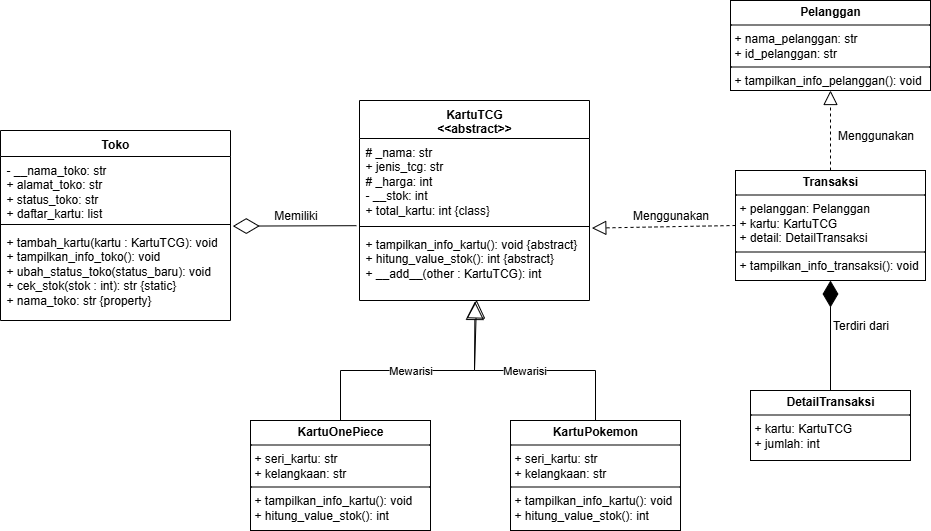
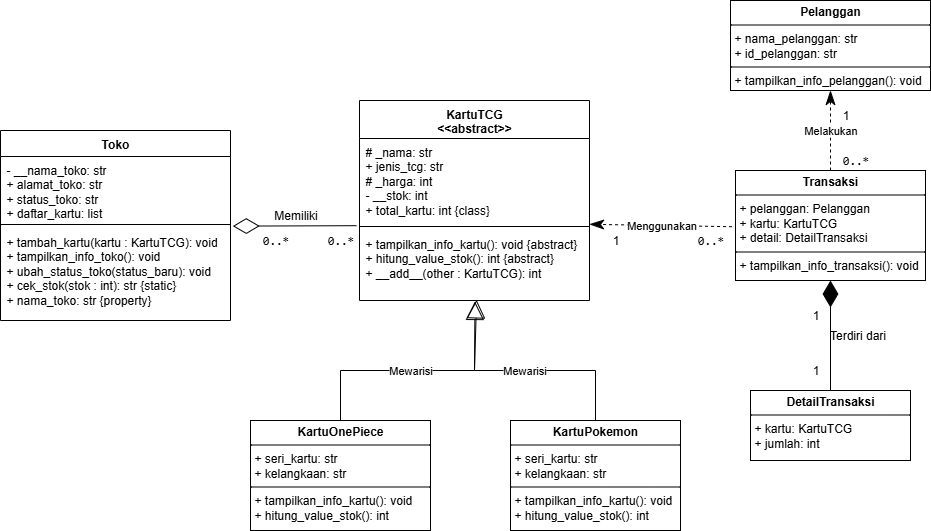
Revisi README

diff --git a/posttest3-pbo/README.md b/posttest3-pbo/README.md
@@ -12,19 +12,39 @@ Class yang digunakan adalah `KartuTCG` (abstract class), `KartuPokemon`, `KartuO
 
 ![Gambar 1. Class Diagram](png/uml.png)
 
-Diagram di atas menampilkan nama kelas, atribut dan method utama, serta garis relasi antar kelas. Setiap relasi pada diagram benar-benar diimplementasikan pada kode program.
+Diagram UML di atas menggambarkan kelas-kelas yang digunakan dalam program beserta atribut, method, dan hubungan antar kelasnya. Dalam diagram ini terdapat empat jenis hubungan, yaitu asosiasi, agregasi, komposisi, dan pewarisan. Selain itu, terdapat juga *multiplicity* yang menunjukkan jumlah objek yang dapat terlibat dalam suatu hubungan. Angka `1` berarti tepat satu objek, sedangkan `0..*` berarti bisa tidak ada objek sama sekali atau bisa lebih dari satu objek.
 
 **Asosiasi (`Transaksi` → `Pelanggan` dan `Transaksi` → `KartuTCG`)**
-Objek `Pelanggan` dan `KartuTCG` dibuat di luar kelas `Transaksi`, kemudian diberikan melalui constructor dan disimpan pada atribut `self.pelanggan` dan `self.kartu`. Relasi ini berupa asosiasi karena pelanggan dan kartu merupakan objek yang berdiri sendiri dan tetap ada walaupun transaksi tidak ada.
+
+Pada program ini, kelas `Transaksi` menggunakan objek dari kelas `Pelanggan` dan `KartuTCG`. Kedua objek tersebut dibuat di luar kelas `Transaksi`, kemudian dimasukkan melalui constructor dan disimpan pada atribut `self.pelanggan` dan `self.kartu`.
+
+Hubungan ini termasuk asosiasi karena objek pelanggan dan kartu dapat berdiri sendiri meskipun objek transaksi sudah tidak ada.
+
+Pada hubungan `Transaksi` dengan `Pelanggan`, angka `1` yang berada di dekat kelas `Pelanggan` menunjukkan bahwa setiap transaksi hanya melibatkan satu pelanggan. Sementara itu, angka `0..*` di dekat kelas `Transaksi` berarti satu pelanggan bisa saja belum pernah melakukan transaksi atau sudah melakukan banyak transaksi.
+
+Hal yang sama juga berlaku pada hubungan `Transaksi` dengan `KartuTCG`. Angka `1` di dekat `KartuTCG` berarti setiap transaksi hanya menggunakan satu jenis kartu, sedangkan `0..*` di dekat `Transaksi` berarti satu objek kartu dapat digunakan dalam beberapa transaksi atau belum pernah digunakan sama sekali.
 
 **Agregasi (`Toko` ◇— `KartuTCG`)**
-Kelas `Toko` menampung kumpulan kartu pada list `daftar_kartu` melalui method `tambah_kartu()`, sedangkan objek kartu dibuat di luar kelas `Toko`. Relasi ini dipilih sebagai agregasi karena apabila objek `Toko` dihapus, objek kartu tetap ada dan masih dapat digunakan oleh toko lain.
+
+Kelas `Toko` memiliki list `daftar_kartu` yang digunakan untuk menyimpan kumpulan objek kartu. Kartu tersebut ditambahkan menggunakan method `tambah_kartu()`. Objek kartu dibuat secara terpisah dari toko, sehingga ketika objek toko dihapus, kartu tersebut masih bisa digunakan.
+
+Hubungan ini termasuk agregasi karena objek kartu tidak bergantung sepenuhnya pada objek toko. Pada diagram, angka `0..*` di dekat kelas `KartuTCG` menunjukkan bahwa satu toko bisa memiliki banyak kartu atau belum memiliki kartu sama sekali. Sementara itu, angka `0..*` di dekat kelas `Toko` berarti satu kartu bisa terdaftar pada beberapa toko atau tidak terdaftar pada toko mana pun. Hal ini memungkinkan karena program tidak membatasi satu kartu hanya untuk satu toko.
 
 **Komposisi (`Transaksi` ◆— `DetailTransaksi`)**
-Objek `DetailTransaksi` dibuat langsung di dalam constructor kelas `Transaksi`. Relasi ini dipilih sebagai komposisi karena detail transaksi (kartu dan jumlah) tidak memiliki arti tanpa transaksinya, sehingga siklus hidupnya bergantung penuh pada `Transaksi`.
+
+Pada kelas `Transaksi`, objek `DetailTransaksi` dibuat langsung di dalam constructor. Objek ini digunakan untuk menyimpan informasi kartu dan jumlah pembelian dalam suatu transaksi.
+
+Hubungan ini termasuk komposisi karena detail transaksi merupakan bagian dari transaksi itu sendiri dan keberadaannya bergantung pada objek `Transaksi`.
+
+Pada diagram, kedua kelas memiliki angka `1`. Angka `1` di dekat `DetailTransaksi` menunjukkan bahwa setiap transaksi memiliki tepat satu detail transaksi. Sementara itu, angka `1` di dekat `Transaksi` berarti setiap detail transaksi hanya menjadi bagian dari satu transaksi. Jadi, hubungan kedua kelas ini bersifat satu banding satu atau *one-to-one*.
 
 **Pewarisan (`KartuPokemon` dan `KartuOnePiece` → `KartuTCG`)**
-Kedua kelas tersebut merupakan subclass dari `KartuTCG`.
+
+Kelas `KartuPokemon` dan `KartuOnePiece` merupakan turunan dari kelas `KartuTCG`. Kedua kelas tersebut mewarisi atribut dan method yang dimiliki oleh kelas induknya.
+
+Kelas `KartuTCG` dibuat sebagai abstract class yang memiliki dua abstract method, yaitu `tampilkan_info_kartu()` dan `hitung_value_stok()`. Kedua method tersebut kemudian diimplementasikan kembali pada masing-masing subclass sesuai dengan jenis kartunya.
+
+Pada diagram UML, hubungan pewarisan ditunjukkan dengan garis yang memiliki ujung segitiga kosong mengarah ke kelas `KartuTCG`. Berbeda dengan hubungan sebelumnya, pewarisan tidak menggunakan angka multiplicity karena hubungan ini menunjukkan hubungan antara kelas induk dan kelas turunan, bukan jumlah objek yang saling terhubung.
 
 ---
 
@@ -147,40 +167,49 @@ Stok kartu 1 berhasil diubah menjadi 10 karena nilainya valid. Ketika stok kartu
 ---
 
 ## Prinsip SOLID
-Program ini menerapkan tiga prinsip SOLID, yaitu OCP, LSP, dan DIP.
- 
-| Prinsip | Bagian kode yang menerapkan |
+
+Program ini menerapkan prinsip Open/Closed Principle (OCP) dan Liskov Substitution Principle (LSP), serta pendekatan yang mendukung Dependency Inversion Principle (DIP).
+
+| Prinsip | Bagian Kode |
 |---|---|
-| Open/Closed Principle (OCP) | Fungsi `bayar_pesanan()` dan hierarki `KartuTCG` |
-| Liskov Substitution Principle (LSP) | `KartuPokemon` dan `KartuOnePiece` sebagai pengganti `KartuTCG` |
+| Open/Closed Principle (OCP) | `bayar_pesanan()` dan `KartuTCG` |
+| Liskov Substitution Principle (LSP) | `KartuPokemon` dan `KartuOnePiece` |
 | Dependency Inversion Principle (DIP) | Parameter `metode` pada `bayar_pesanan()` |
- 
+
 ### 1. Open/Closed Principle (OCP)
- 
-Kode terbuka untuk ditambah, tetapi tertutup untuk diubah. Prinsip ini diterapkan pada dua bagian:
- 
-- **Metode pembayaran.** Fungsi `bayar_pesanan()` tidak perlu diubah ketika ada metode pembayaran baru. Cukup dibuat kelas baru yang memiliki method `proses_pembayaran()`, misalnya `PembayaranTransfer`, tanpa menyentuh `PembayaranQRIS`, `PembayaranTunai`, maupun `bayar_pesanan()`.
+
+Prinsip OCP berarti program dapat ditambahkan fitur baru tanpa harus mengubah kode yang sudah ada. Contohnya, kita bisa menambahkan metode pembayaran baru selama memiliki method `proses_pembayaran()`.
+
 ```python
 def bayar_pesanan(metode, jumlah):
     metode.proses_pembayaran(jumlah)
 ```
- 
-- **Jenis kartu.** Jenis kartu baru, misalnya `KartuYuGiOh`, cukup dibuat sebagai subclass `KartuTCG` yang mengimplementasikan kedua abstract method. Kelas `Toko`, `Transaksi`, dan perulangan pada program utama tidak perlu diubah.
+
+Selain itu, jenis kartu baru seperti `KartuYuGiOh` juga dapat ditambahkan dengan membuat subclass dari `KartuTCG` dan mengimplementasikan kedua abstract method.
+
 ### 2. Liskov Substitution Principle (LSP)
- 
-Objek subclass dapat dipakai di mana pun objek parent-nya dipakai tanpa menyebabkan error. `KartuPokemon` dan `KartuOnePiece` dapat menggantikan `KartuTCG` karena keduanya mengimplementasikan seluruh abstract method dan tidak menolak atau melempar error pada method yang diwarisi.
- 
-- `Toko.tambah_kartu()` dan `Transaksi` menerima objek `KartuTCG` apa pun, baik Pokemon maupun One Piece.
-- Perulangan `for kartu in daftar_kartu` memanggil `jalankan()`, `tampilkan_info_kartu()`, dan `hitung_value_stok()` pada kedua jenis kartu dengan cara yang sama dan berjalan tanpa error.
+
+Prinsip LSP berarti subclass dapat menggantikan parent class tanpa mengganggu jalannya program. Pada program ini, `KartuPokemon` dan `KartuOnePiece` dapat digunakan dengan cara yang sama karena keduanya merupakan turunan `KartuTCG`.
+
+```python
+for kartu in daftar_kartu:
+    kartu.jalankan()
+    kartu.tampilkan_info_kartu()
+    print("Nilai Stok: Rp", kartu.hitung_value_stok())
+```
+
+Kedua jenis kartu dapat menjalankan method tersebut tanpa perlu pengecekan tipe objek, meskipun hasilnya berbeda sesuai implementasi masing-masing.
+
 ### 3. Dependency Inversion Principle (DIP)
- 
-Objek yang dibutuhkan suatu bagian program tidak dibuat di dalamnya, tetapi dikirim dari luar. Fungsi `bayar_pesanan()` menerima objek metode pembayaran melalui parameter `metode`, sehingga fungsi ini tidak membuat `PembayaranQRIS` atau `PembayaranTunai` sendiri. Fungsi hanya bergantung pada keberadaan method `proses_pembayaran()`, bukan pada kelas pembayaran tertentu. Objek pembayaran dibuat pada program utama:
- 
+
+Prinsip DIP berarti program sebaiknya bergantung pada abstraksi, bukan kelas tertentu. Pada program ini, pendekatan yang mendukung DIP terlihat dari fungsi `bayar_pesanan()` yang menerima objek pembayaran melalui parameter `metode`.
+
 ```python
 qris = PembayaranQRIS()
 tunai = PembayaranTunai()
- 
+
 bayar_pesanan(qris, 15000000)
 bayar_pesanan(tunai, 10000000)
 ```
- 
+
+Fungsi tersebut dapat menggunakan QRIS maupun tunai tanpa perlu membuat objek pembayaran sendiri. Pendekatan ini menggunakan dependency injection dan duck typing, tetapi belum sepenuhnya menerapkan DIP karena belum ada abstract class khusus untuk pembayaran.
